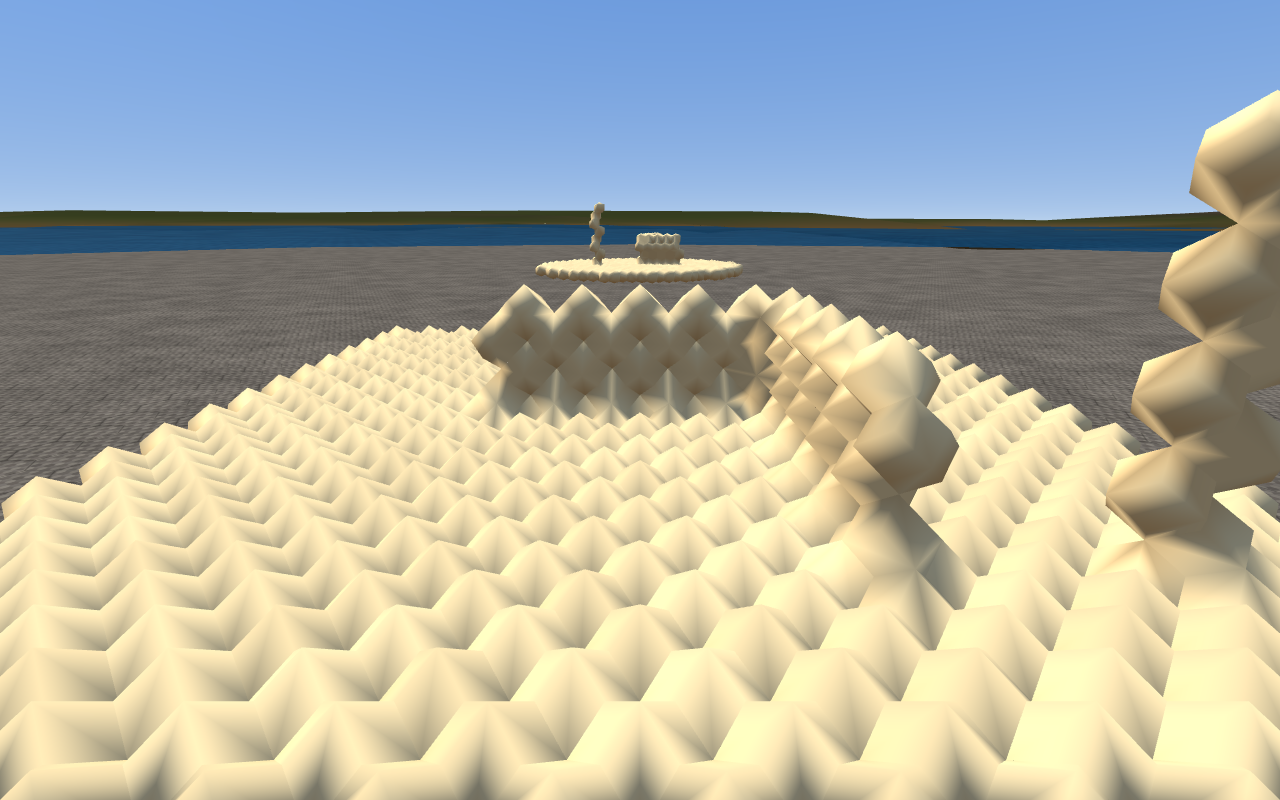
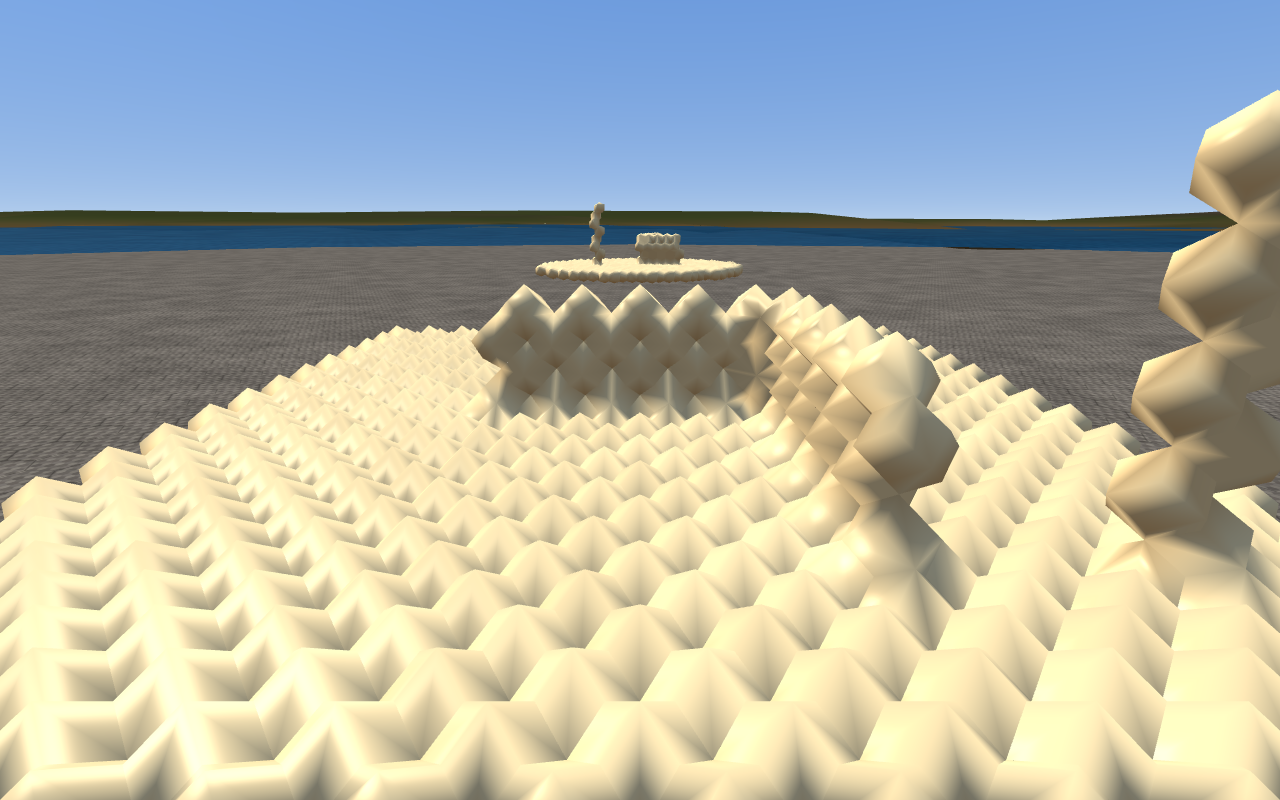
Horizon ring: infinity points exactly on the horizon (horizontal directions)

diff --git a/rhombic_game/terrain.py b/rhombic_game/terrain.py
@@ -224,9 +224,11 @@ def build_horizon_ring() -> tuple[np.ndarray, np.ndarray]:
 
     Vertex format: (aHomog vec4, aColor vec4) -- 8 floats.
     Inner vertices are finite (w = 1) with the terrain's own
-    colour and alpha 1; outer vertices are directions (w = 0)
-    carrying the mean terrain colour with opacity equal to the
-    land fraction, to be blended over the sea after it is drawn.
+    colour and alpha 1; outer vertices are purely horizontal
+    directions (w = 0, y = 0) -- points at infinity lie exactly
+    on the horizon line, never above it -- carrying the mean
+    terrain colour with opacity equal to the land fraction, to
+    be blended over the sea after it is drawn.
     """
     stats = terrain_stats()
     mean = stats["mean_colour"]
@@ -238,7 +240,7 @@ def build_horizon_ring() -> tuple[np.ndarray, np.ndarray]:
         h = height(x, z)
         c = colour_at(x, z)
         rows.append((x, h, z, 1.0, c[0], c[1], c[2], 1.0))
-        rows.append((x, h, z, 0.0, mean[0], mean[1], mean[2], land))
+        rows.append((x, 0.0, z, 0.0, mean[0], mean[1], mean[2], land))
     verts = np.array(rows, dtype=np.float32)
     idx = []
     for i in range(HORIZON_SEGMENTS):

diff --git a/tests/test_terrain.py b/tests/test_terrain.py
@@ -46,6 +46,9 @@ class TerrainTests(unittest.TestCase):
         outer = verts[1::2]
         self.assertTrue(np.all(inner[:, 3] == 1.0))  # finite
         self.assertTrue(np.all(outer[:, 3] == 0.0))  # at infinity
+        # Infinity points lie exactly on the horizon: their
+        # direction is purely horizontal.
+        self.assertTrue(np.all(outer[:, 1] == 0.0))
         land = terrain.terrain_stats()["land_fraction"]
         np.testing.assert_allclose(outer[:, 7], land, atol=1e-6)
         self.assertTrue(np.all(inner[:, 7] == 1.0))
